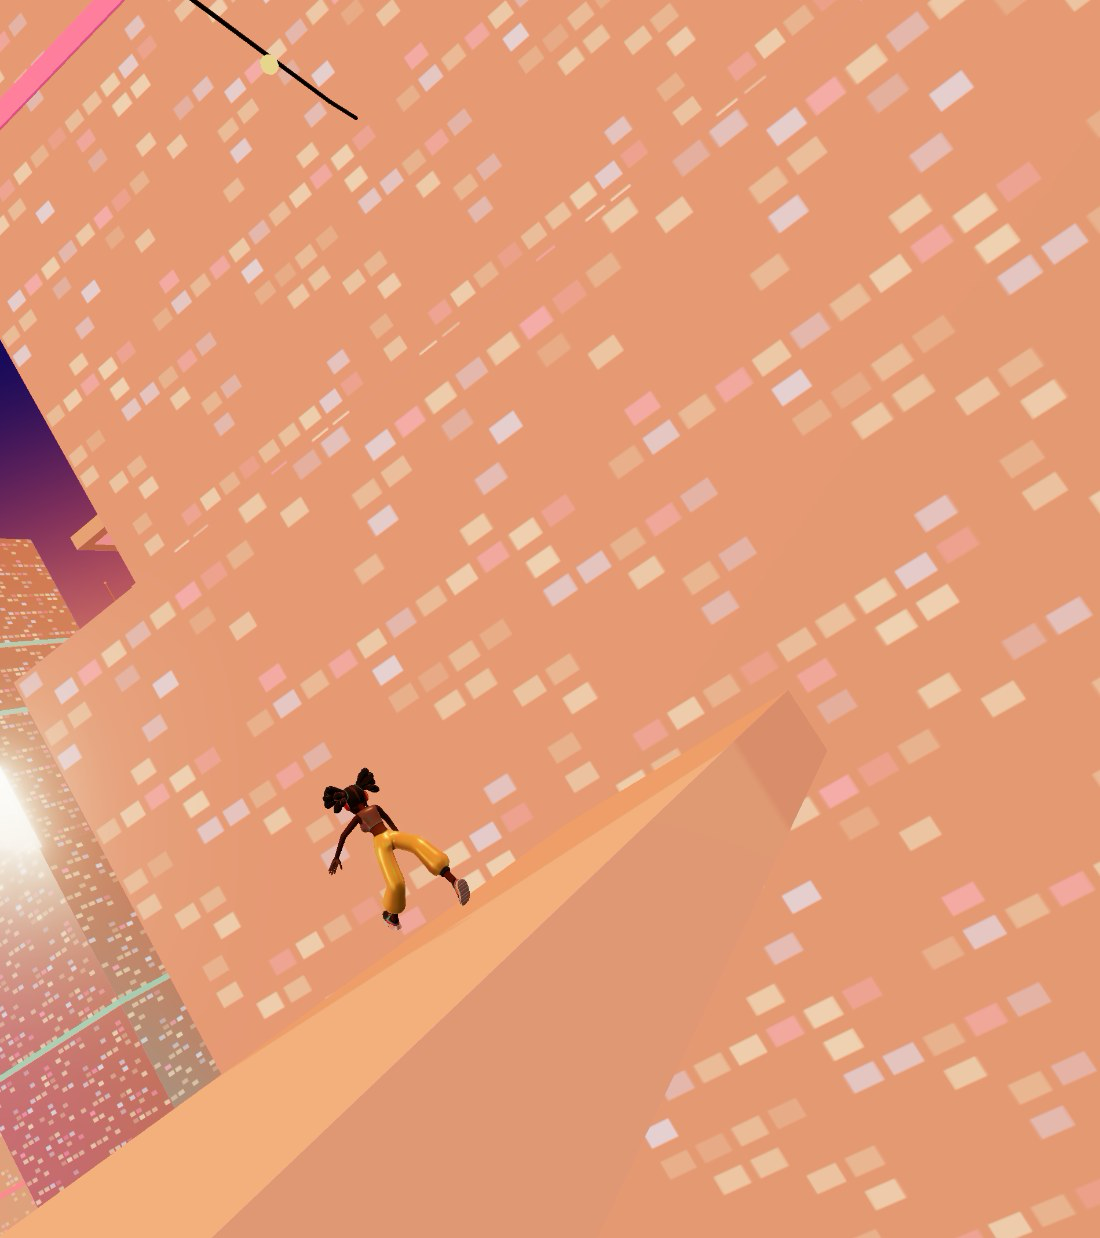
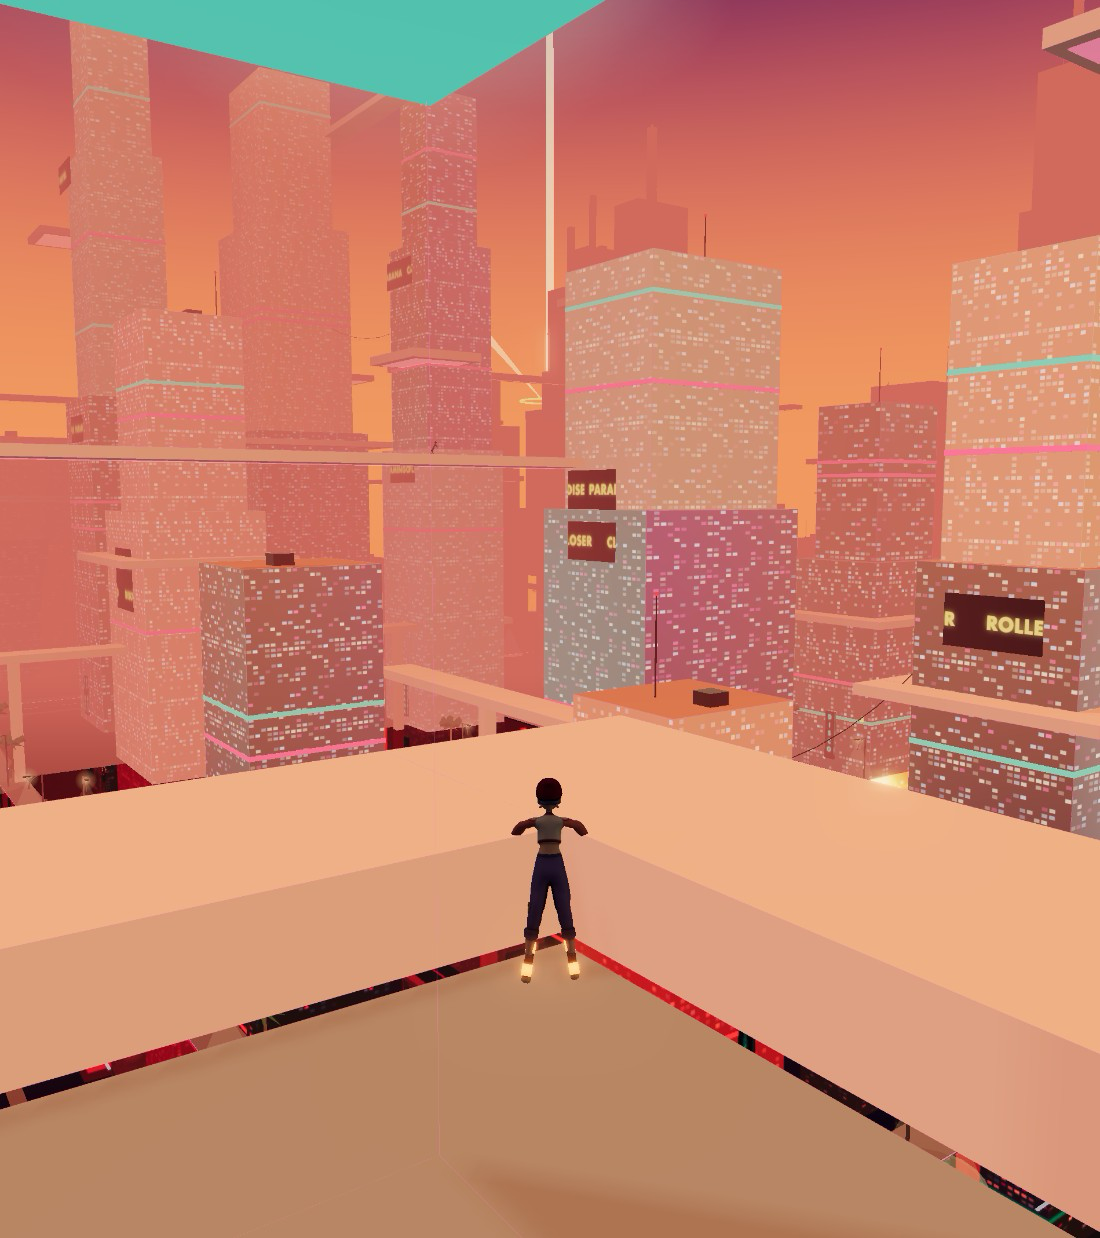
Fix translucent hero (force FBX materials opaque) + kill red floor (fog runs cooler than the sky horizon, cooler windows/ambient, subtler lamp cones)

diff --git a/src/avatars.js b/src/avatars.js
@@ -203,6 +203,12 @@ export function makeCharacter(opts = {}) {
       const ms = Array.isArray(o.material) ? o.material : [o.material];
       const cloned = ms.map(m => {
         const c = m.clone();
+        // Mixamo FBX materials often ship with transparency flags on — force opaque
+        c.transparent = false;
+        c.opacity = 1;
+        c.depthWrite = true;
+        c.alphaMap = null;
+        c.alphaTest = 0;
         if (!isPlayer && c.color) c.color.lerp(tint, 0.25);
         return c;
       });

diff --git a/src/main.js b/src/main.js
@@ -44,7 +44,7 @@ const bloom = new UnrealBloomPass(
 composer.addPass(bloom);
 composer.addPass(new OutputPass());
 
-const ambient = new THREE.AmbientLight(0x6a5070, 0.72);
+const ambient = new THREE.AmbientLight(0x6a5070, 0.88);
 scene.add(ambient);
 const dirLight = new THREE.DirectionalLight(0x9a86c8, 0.9);
 dirLight.castShadow = true;
@@ -783,7 +783,9 @@ function step(dtOverride) {
 
   nightF += (night - nightF) * Math.min(1, dt * 0.35);
   const atm = blendedAtmosphere(nightF);
-  scene.fog.color.copy(atm.horizon);
+  // sunset color stays in the sky dome; fog runs cooler so the ground
+  // fades to dusk-mauve instead of red
+  scene.fog.color.copy(atm.horizon).lerp(atm.skyTop, 0.48);
   ambient.color.copy(atm.ambient);
   dirLight.color.copy(atm.key);
   dirLight.position.copy(player.p).add(LIGHT_OFF);

diff --git a/src/city.js b/src/city.js
@@ -33,7 +33,7 @@ function makeWindowTexture(neonHex) {
       const lit = office ? Math.random() < 0.85 : Math.random() < 0.30;
       if (!lit) continue;
       const r = Math.random();
-      g.fillStyle = r < 0.6 ? '#ffd9a0' : r < 0.85 ? '#bfe2ff' : neonHex;
+      g.fillStyle = r < 0.45 ? '#ffe8c8' : r < 0.85 ? '#cfe6f8' : neonHex;
       g.globalAlpha = 0.45 + Math.random() * 0.55;
       g.fillRect(i * cw + 2.5, j * rh + 3, cw - 5, rh - 7);
     }
@@ -182,7 +182,7 @@ export class City {
           color: p.lamp, transparent: true, opacity: 0.13,
           blending: THREE.AdditiveBlending, depthWrite: false }),
         cone: new THREE.MeshBasicMaterial({
-          color: p.lamp, transparent: true, opacity: 0.045,
+          color: p.lamp, transparent: true, opacity: 0.028,
           blending: THREE.AdditiveBlending, depthWrite: false, side: THREE.DoubleSide }),
         rotor: new THREE.MeshStandardMaterial({
           color: p.building, roughness: 0.4, metalness: 0.5,

diff --git a/src/palettes.js b/src/palettes.js
@@ -7,7 +7,7 @@ export const ERAS = [
     skyTop: 0x2a1a5e, horizon: 0xff7e4f, skyBelow: 0x241636,
     building: 0xf2e0d0, glass: 0x9fb8c8, street: 0x232a32,
     trim: 0xff5fa2, neon2: 0x2ee6c8, sign: 0xffd166,
-    lamp: 0xffd9a0, sun: 0xffb36a, ambient: 0xc98a74, key: 0xe8a87a },
+    lamp: 0xffd9a0, sun: 0xffb36a, ambient: 0xa08a8c, key: 0xd8a488 },
   { name: 'NEON AVENUE · 1982',
     skyTop: 0x1c1248, horizon: 0xd84f9e, skyBelow: 0x1c1238,
     building: 0xead8e0, glass: 0x8aa8c0, street: 0x1f2630,